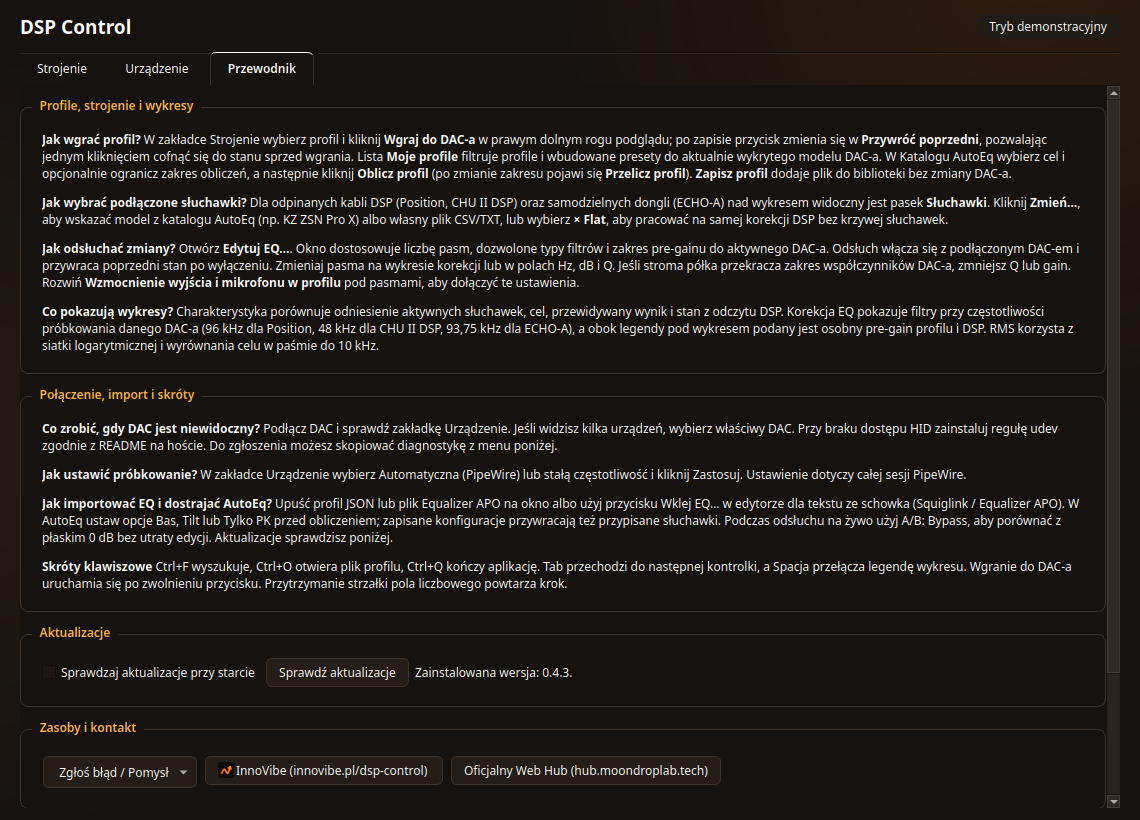
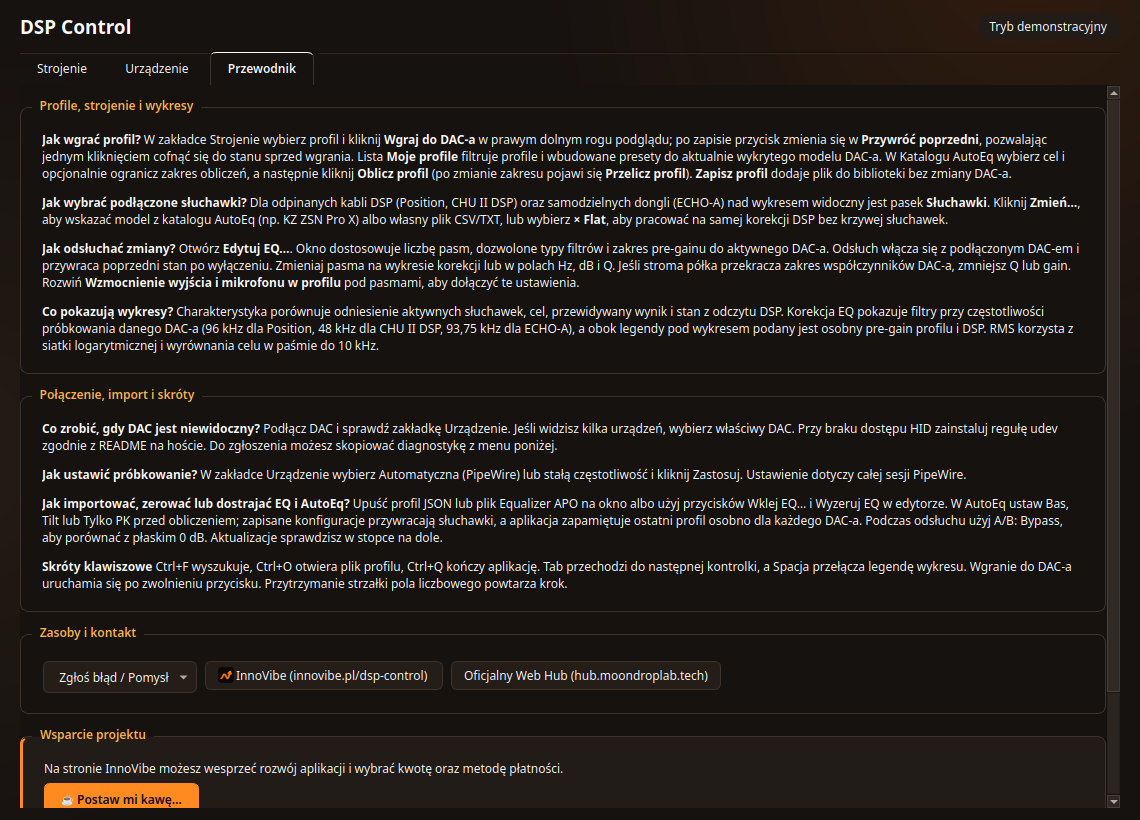
chore(release): prepare v0.5.0 docs, guide, screenshots, and release notes (#31)

Changed region(s): [[0.0307, 0.7622, 0.614, 1.0], [0.0307, 0.6098, 0.9518, 0.6707]]

diff --git a/README.pl.md b/README.pl.md
@@ -103,15 +103,15 @@ Manifest ([`pl.innovibe.DspControl.json`](pl.innovibe.DspControl.json)) używa `
 | Funkcja | Oficjalny Web Hub | DSP Control |
 |---|---|---|
 | EQ parametryczny (`PK / LSQ / HSQ / LP / HP`) + Pre-gain | Tylko `PK / LP / HP` (półki wyłączone na Position) | **Odblokowuje `LSQ / HSQ` (`1× LSQ + 1× HSQ + 6× PK`), natywny USB HID `0x4B`, offline** |
-| Interaktywny wykres EQ i zapas do przesteru | Tylko suwaki | **Przeciąganie punktów na wykresie (Hz/dB/kółko Q) + automatyczny pre-gain** |
+| Interaktywny wykres EQ i zapas do przesteru | Tylko suwaki | **Przeciąganie punktów na wykresie (Hz/dB/kółko Q) + auto pre-gain + Wyzeruj EQ** |
 | Odsłuch na żywo (`Live preview`) | Tak | **Tak — auto-odsłuch + `A/B: Bypass` (płaski 0 dB) + bezpieczne przywracanie** |
 | Wbudowany optymalizator AutoEq | Podstawowe presety | **Indeks 6800+ offline + Bas / Tilt / Tylko PK + zakres + Drag & Drop** |
 | Porównanie z obecnym DSP i interaktywna legenda | Nie | **Krzywa `Obecnie w DSP` na obu wykresach, ukrywanie/solo pigułek, `Hz / dB / Δ dB`** |
 | Wzmocnienie wyjścia (`-18…0 dB`) i mikrofonu | Tak | **Tak, z opcjonalnym zapisem w profilu** |
-| Biblioteka lokalna vs flash DAC-a | Ograniczone | **Pełna biblioteka, auto-synchronizacja słuchawek, Drag & Drop, wklejanie/import/eksport Equalizer APO** |
+| Biblioteka lokalna vs flash DAC-a | Ograniczone | **Pełna biblioteka, pamięć profilu per DAC, auto-sync słuchawek, wklejanie/import Equalizer APO** |
 | Monitor strumienia UAC2 i próbkowania PipeWire | Nie | **Tak (`44,1–384 kHz` + odczyt głębi bitowej ALSA)** |
 | Weryfikacja zapisu i diagnostyka | Podstawowa | **Weryfikacja przed/po zapisie flash, Przywróć poprzedni, bezrootowy `--diagnose`** |
-| Motywy, język, Przewodnik i aktualizacje | Tylko web | **Motywy InnoVibe Ciemny i Jasny, PL / EN, Przewodnik, opcjonalne sprawdzanie wydań** |
+| Motywy, język, Przewodnik i aktualizacje | Tylko web | **Motywy InnoVibe Ciemny i Jasny, PL / EN, stopka aktualizacji i kopiowanie komendy Flatpak** |
 
 ---
 

diff --git a/README.md b/README.md
@@ -103,15 +103,15 @@ The manifest ([`pl.innovibe.DspControl.json`](pl.innovibe.DspControl.json)) requ
 | Feature | Official Web Hub | DSP Control |
 |---|---|---|
 | Parametric EQ (`PK / LSQ / HSQ / LP / HP`) + Pre-gain | `PK / LP / HP` only (shelves disabled on Position) | **Unlocks `LSQ / HSQ` (`1× LSQ + 1× HSQ + 6× PK`), native USB HID `0x4B`, offline** |
-| Interactive EQ Curve & Headroom | Sliders only | **Drag points on plot (Freq / Gain / Wheel Q) + Auto Headroom & Clip Check** |
+| Interactive EQ Curve & Headroom | Sliders only | **Drag points on plot (Freq / Gain / Wheel Q) + Auto Headroom & 1-click Zero EQ** |
 | Live Auditioning | Yes | **Yes, auto-enabled + `A/B: Bypass` flat compare + safe restore** |
 | Built-in AutoEq Optimizer | Basic presets | **6,800+ offline index + Bass boost / Tilt / PK-only + fit range + Drag & Drop** |
 | Live DSP Comparison & Interactive Legend | No | **Compare against Current in DSP on both plots, toggle/solo pills, `Hz / dB / Δ dB`** |
 | Output Gain (`-18…0 dB`) & Mic Gain | Yes | **Yes, optional per-profile bundling** |
-| Local Library vs DAC Flash | Limited | **Full local library, headphone auto-sync, Drag & Drop, JSON & Equalizer APO paste/import/export** |
+| Local Library vs DAC Flash | Limited | **Full local library, per-DAC last profile & headphone auto-sync, Equalizer APO paste/import/export** |
 | PipeWire UAC2 Monitor & Sample Rate | No | **Yes (`44.1–384 kHz` + ALSA bit-depth readout)** |
 | Readback Verification & Diagnostics | Basic | **Pre/post-flash verification, 1-click Restore previous, rootless `--diagnose`** |
-| Themes, Language, Guide & Updates | Web only | **InnoVibe Dark & Light, EN / PL, built-in Guide, opt-in release update check** |
+| Themes, Language, Guide & Updates | Web only | **InnoVibe Dark & Light, EN / PL, Guide footer with update check & Flatpak command copy** |
 
 ---
 
